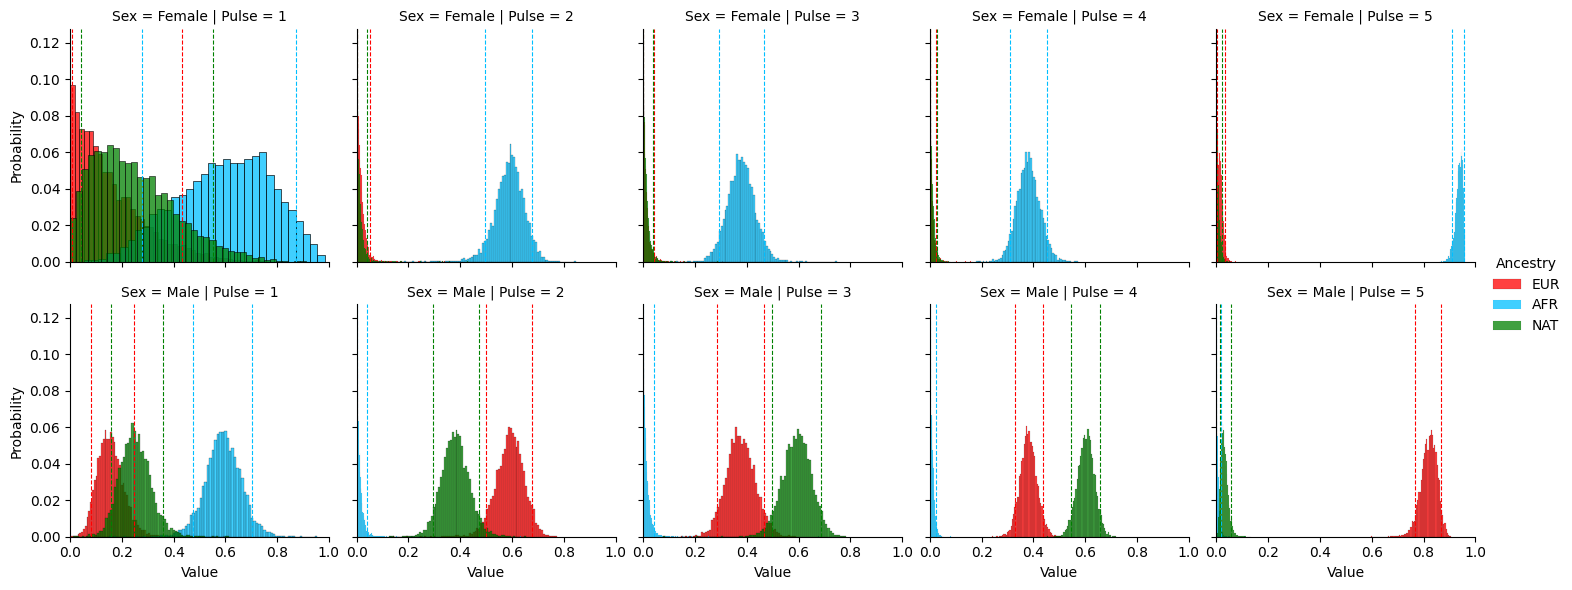
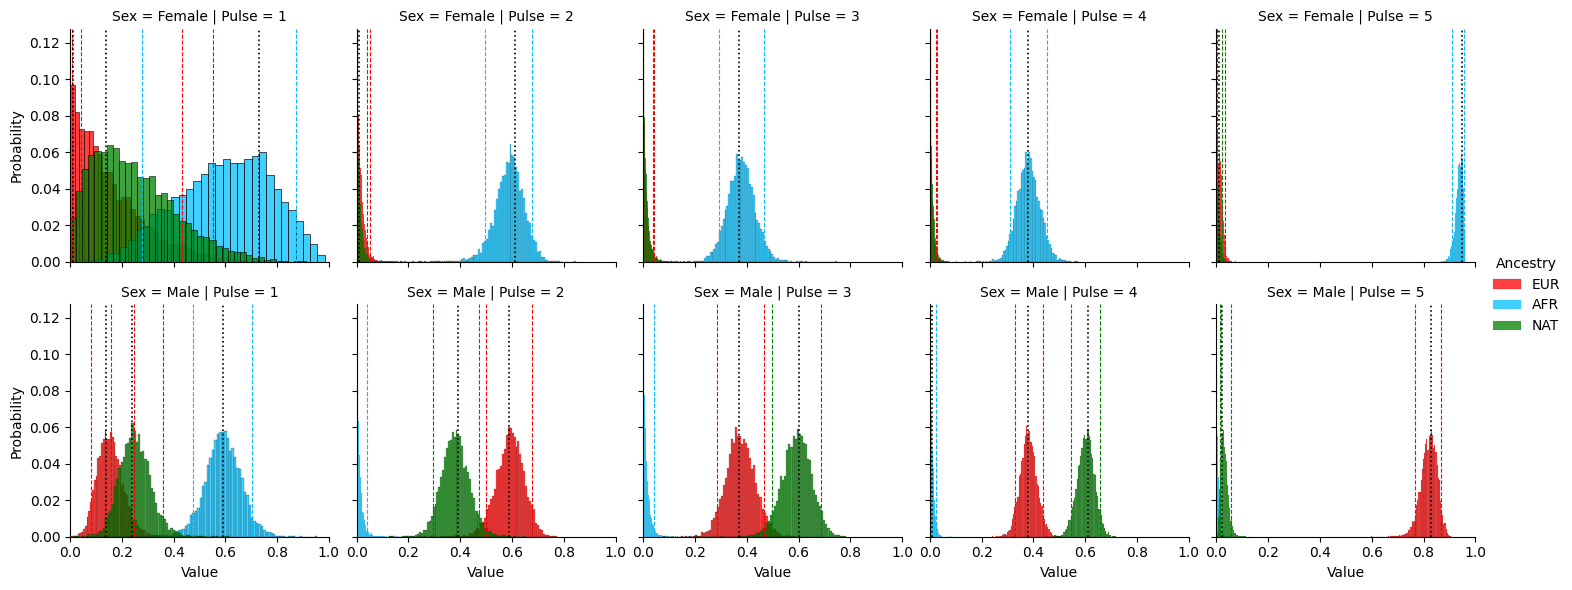
Fixes find_mode() function, now the stats are complete

diff --git a/script.py b/script.py
@@ -85,6 +85,7 @@ def plot_histograms(df, ancestries, type, percentage, savefile):
     graph = sns.FacetGrid(df_hist, col="Pulse", row="Sex", hue="Ancestry", palette=colours)
     graph = (graph.map_dataframe(sns.histplot, x="Value", multiple=type, stat='probability').add_legend())
     
+    #draw lines in graphs
     for i in range(0, 2):
         axes = graph.axes[i]
         for j in range (0, len(axes)):
@@ -97,8 +98,13 @@ def plot_histograms(df, ancestries, type, percentage, savefile):
                     #drawing quantile bounds in graph
                     lower_quantile = np.percentile(df_temp["Value"], ((100-percentage)/2), method="closest_observation")
                     upper_quantile = np.percentile(df_temp["Value"], (100-((100-percentage)/2)), method="closest_observation")
-                    axes[j].axvline(x=lower_quantile, color=colours[anc], linestyle='--', linewidth=0.8, label='05%')
-                    axes[j].axvline(x=upper_quantile, color=colours[anc], linestyle='--', linewidth=0.8, label='90%')
+                    
+                    #quantile bounds lines
+                    axes[j].axvline(x=lower_quantile, color=colours[anc], linestyle='--', linewidth=0.8)
+                    axes[j].axvline(x=upper_quantile, color=colours[anc], linestyle='--', linewidth=0.8)
+                    
+                    #mode line
+                    axes[j].axvline(x=find_mode(df_temp), color="black", linestyle=':', linewidth=1.2)
     plt.xlim([0, 1])
     graph.savefig(savefile)
 
@@ -117,6 +123,7 @@ def plot_lines(df, ancestries, percentage, savefile):
     graph = sns.FacetGrid(df_hist, col="Pulse", row="Sex", hue="Ancestry", palette=colours)
     graph = (graph.map_dataframe(sns.histplot, x="Value", fill=False, linewidth=0, kde=True, stat='probability').add_legend())
 
+    #draw lines in graphs
     for i in range(0, 2):
         axes = graph.axes[i]
         for j in range (0, len(axes)):
@@ -129,10 +136,13 @@ def plot_lines(df, ancestries, percentage, savefile):
                     #drawing quantile bounds in graph
                     lower_quantile = np.percentile(df_temp["Value"], ((100-percentage)/2), method="closest_observation")
                     upper_quantile = np.percentile(df_temp["Value"], (100-((100-percentage)/2)), method="closest_observation")
+
+                    #quantile bounds lines
                     axes[j].axvline(x=lower_quantile, color=colours[anc], linestyle='--', linewidth=0.8)
                     axes[j].axvline(x=upper_quantile, color=colours[anc], linestyle='--', linewidth=0.8)
-                    # axes[j].text(lower_quantile-0.1, (axes[j].get_ylim()[1]-0.01), "5%")
-                    # axes[j].text(upper_quantile+0.1, (axes[j].get_ylim()[1]-0.01), "90%")
+                    
+                    #mode line
+                    axes[j].axvline(x=find_mode(df_temp), color="black", linestyle=':', linewidth=1.2)
 
     plt.xlim([0, 1])
     graph.savefig(savefile)
@@ -208,34 +218,29 @@ def filter_ci(percentage, df_unfiltered):
 
 # Function to find mode from the continuous data
 def find_mode(df):
-    return 0
     if df.empty:
         return 0
     
-    x,y = sns.histplot(df, x="Value", fill=False, edgecolor="k", linewidth=0, kde=True).get_lines()[0].get_data()
-    # print(np.shape(x), np.shape(y))
-    
-    max_prob = 0
-    mode = 0
-    it = 0
-    for prob in y:
-        it+=1
-        print(prob)
-        if prob > max_prob:
-            max_prob = prob
-    
-    
+    #calculating number of bins using IQR
+    Q1 = np.quantile(df["Value"], 0.25)
+    Q3 = np.quantile(df["Value"], 0.75)
+    IQR = Q3 - Q1
+    cube = np.cbrt(len(df["Value"]))
+    bin_width = 2*IQR/cube
+    if bin_width == 0: return 0
+    n_bins = round(1/bin_width, 0)    
 
-    print(f'Max probability is:', max_prob)
+    hist = np.histogram(df["Value"], bins=int(n_bins))
 
-    # for ind in df.index:
-    #     value = df["Value"][ind]
-    #     prob = scipy.stats.norm(value)
-    #     if prob > max_prob:
-    #         max_prob = prob
-    #         mode = value
-    
-    return mode
+    count_max=0
+    mode=0
+
+    for i in range(len(hist[0])):
+        if hist[0][i] > count_max:
+            count_max = hist[0][i]
+            mode = (hist[1][i] + hist[1][i+1])/2
+
+    return round(mode, 2)
 
 def write_stats(df, file_name):
     ancestries = ("EUR", "AFR", "NAT", "HYB")
@@ -256,7 +261,8 @@ def write_stats(df, file_name):
 
                         row = [sexes[i], j, ancestries[k], anc["Value"].min(), anc["Value"].mean(), anc["Value"].median(), find_mode(anc), anc["Value"].max(), anc["Value"].std()]
                         writer.writerow(row)
-                    
+
+#function creates folders for graphs, if they don't exist yet                    
 def create_directories():
     
     directory = "HDR"
@@ -319,13 +325,19 @@ plot_lines(df_new, ancestries, 90, "./NO_HDR/Hybrid_Separated/only_hybrid_line_g
 write_stats(df_new, "./stats_NO_HDR.csv")
 
 #filtering for only 90% of density
-# df_new = filter(90, df_new)
+df_new = filter(90, df_new)
 
-# plot_histograms(df_new, "with_hybrid", "layer", "./HDR/Standard/histogram.png")
-# plot_lines(df_new, "with_hybrid", "./HDR/Standard/line_graph.png")
-# plot_histograms(df_new, "no_hybrid", "layer", "./HDR/Hybrid_Separated/no_hybrid_histogram.png")
-# plot_lines(df_new, "no_hybrid", "./HDR/Hybrid_Separated/no_hybrid_line_graph.png")
-# plot_histograms(df_new, "only_hybrid", "layer", "./HDR/Hybrid_Separated/only_hybrid_histogram.png")
-# plot_lines(df_new, "only_hybrid", "./HDR/Hybrid_Separated/only_hybrid_line_graph.png")
+ancestries = ["EUR", "AFR", "NAT", "HYB"]
 
-# write_stats(df_new, "./stats_HDR.csv")
+plot_histograms(df_new, ancestries, "layer", 90, "./HDR/Standard/histogram.png")
+plot_lines(df_new, ancestries, 90, "./HDR/Standard/line_graph.png")
+
+ancestries = ["EUR", "AFR", "NAT"]
+plot_histograms(df_new, ancestries, "layer", 90, "./HDR/Hybrid_Separated/no_hybrid_histogram.png")
+plot_lines(df_new, ancestries, 90, "./HDR/Hybrid_Separated/no_hybrid_line_graph.png")
+
+ancestries = ["HYB",]
+plot_histograms(df_new, ancestries, "layer", 90, "./HDR/Hybrid_Separated/only_hybrid_histogram.png")
+plot_lines(df_new, ancestries, 90, "./HDR/Hybrid_Separated/only_hybrid_line_graph.png")
+
+write_stats(df_new, "./stats_HDR.csv")
